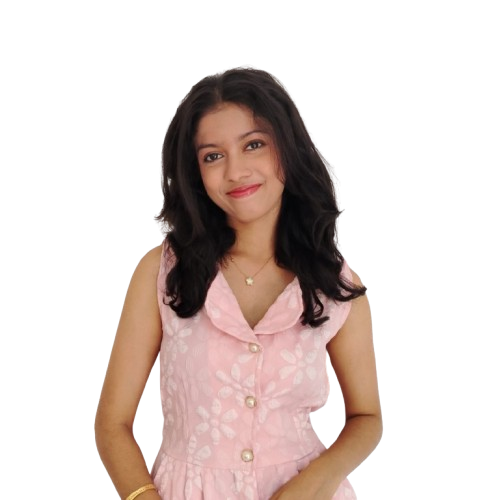
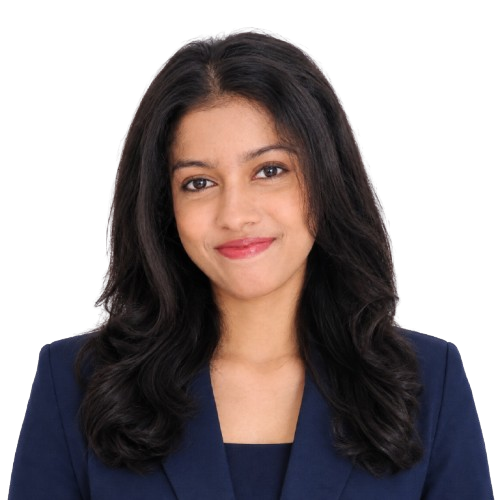
updated profile

diff --git a/portfolio/src/App.css b/portfolio/src/App.css
@@ -234,8 +234,8 @@ a:hover{color:var(--ink);}
 @keyframes psTwinkle{0%,100%{opacity:.35;transform:scale(.8) rotate(0deg);}50%{opacity:1;transform:scale(1.15) rotate(90deg);}}
 
 /* Portrait: oversized, bottom cropped, gentle float */
-.portrait-cutout{position:absolute;left:50%;bottom:-6px;z-index:3;
-  width:auto;height:420px;max-width:none;object-fit:contain;transform:translateX(-50%);
+.portrait-cutout{position:absolute;left:50%;bottom:0;z-index:3;
+  width:auto;height:400px;max-width:none;object-fit:contain;transform:translateX(-50%);
   filter:drop-shadow(0 18px 28px rgba(0,0,0,.5));
   animation:portraitFloat 6s ease-in-out infinite;}
 @keyframes portraitFloat{0%,100%{transform:translateX(-50%) translateY(0);}50%{transform:translateX(-50%) translateY(-9px);}}
